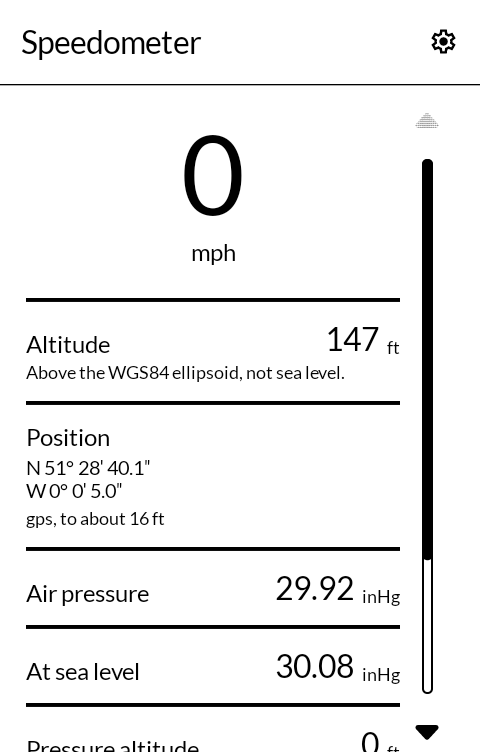
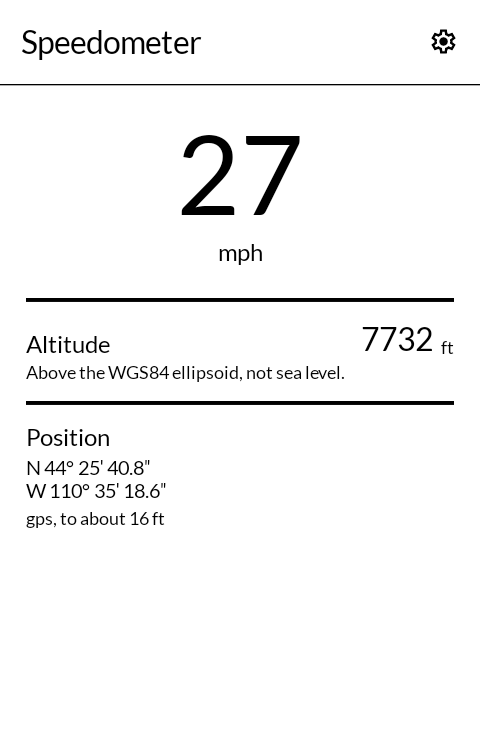
Screenshots show the app as it now ships

diff --git a/README.md b/README.md
@@ -12,7 +12,7 @@ sixteen greys, a slow redraw, and is read outdoors as often as indoors.
 
 | | | | |
 |---|---|---|---|
-| ![Readings](screenshots/01-meter.png) | ![Speed](screenshots/02-speed.png) | ![Settings](screenshots/03-settings.png) | ![About](screenshots/04-about.png) |
+| ![Readings](screenshots/01-meter.png) | ![Speed](screenshots/02-speed.png) | ![Settings](screenshots/03-settings.png) | ![Air pressure](screenshots/04-pressure.png) |
 
 ## What it shows
 
